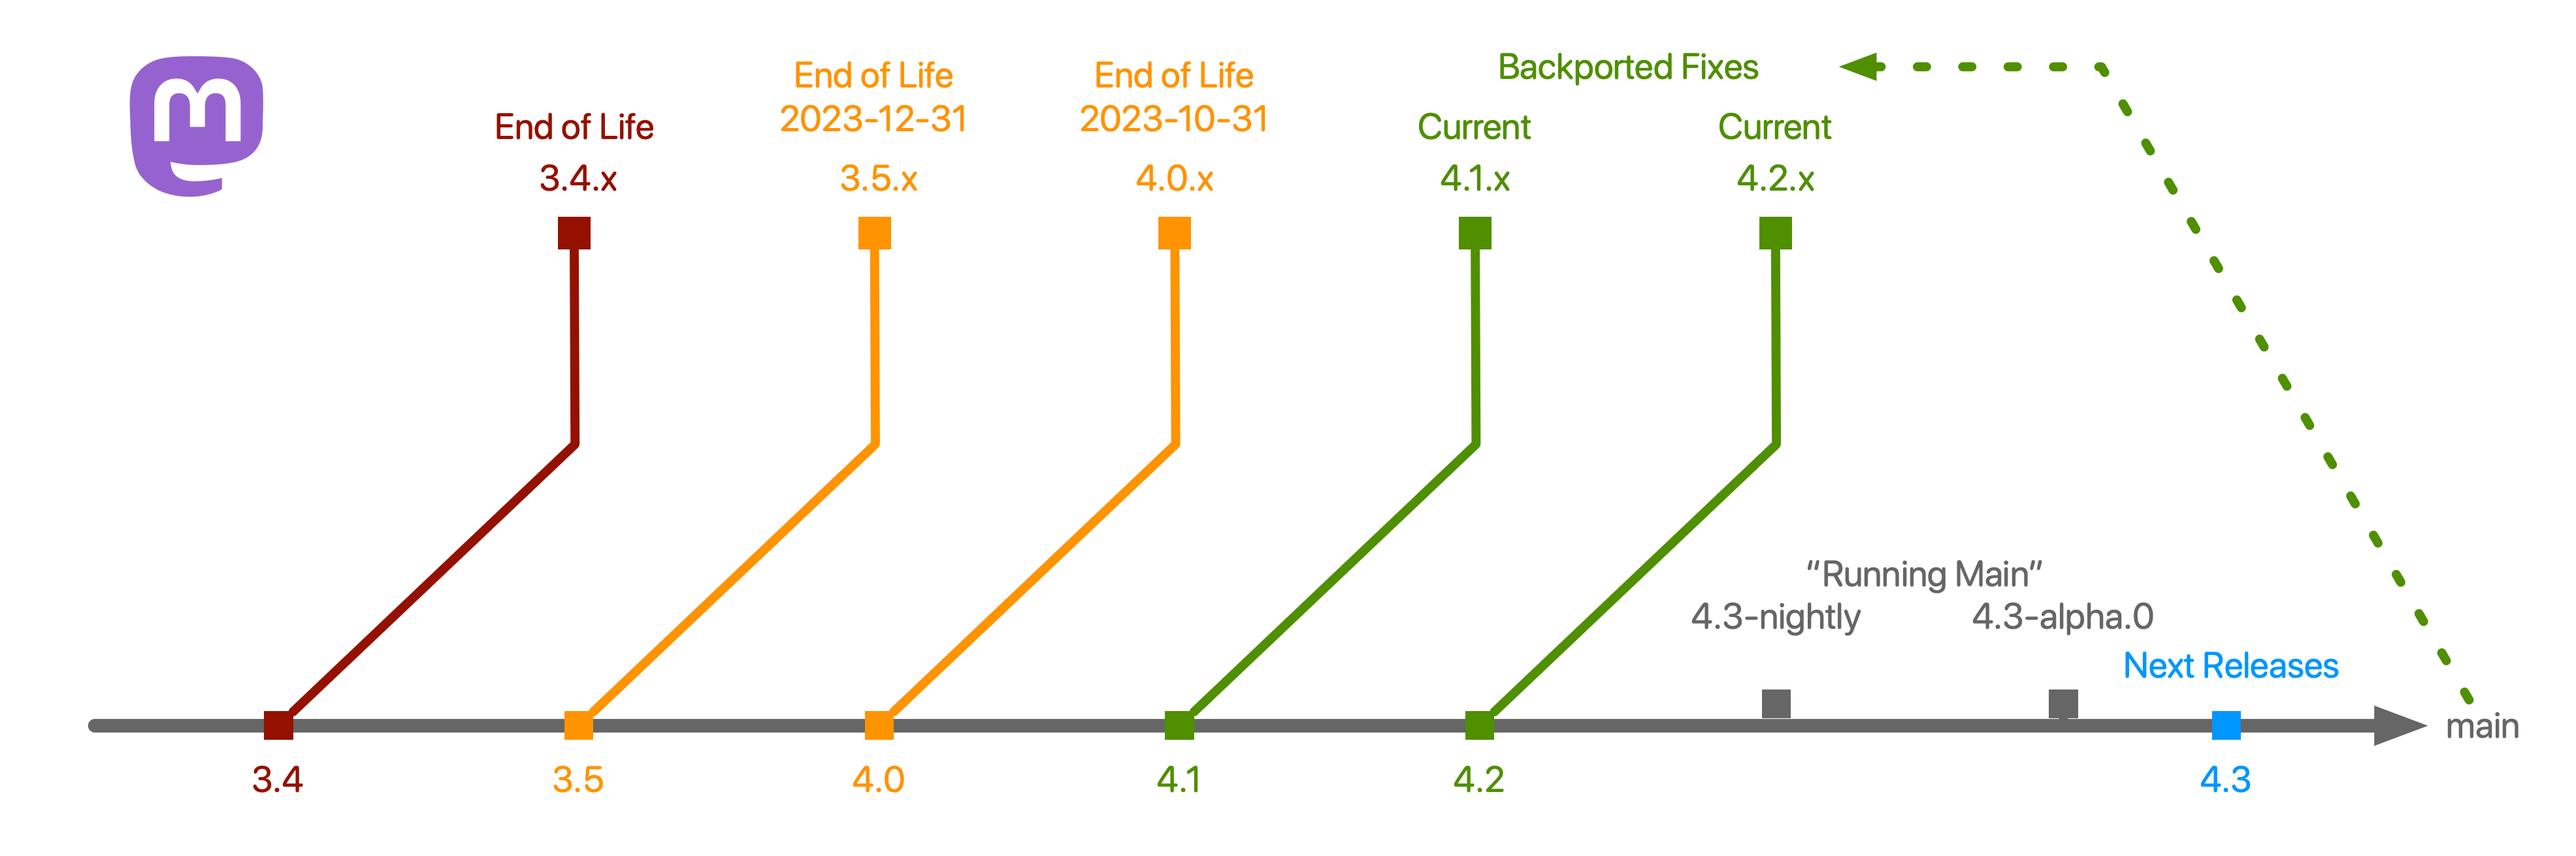
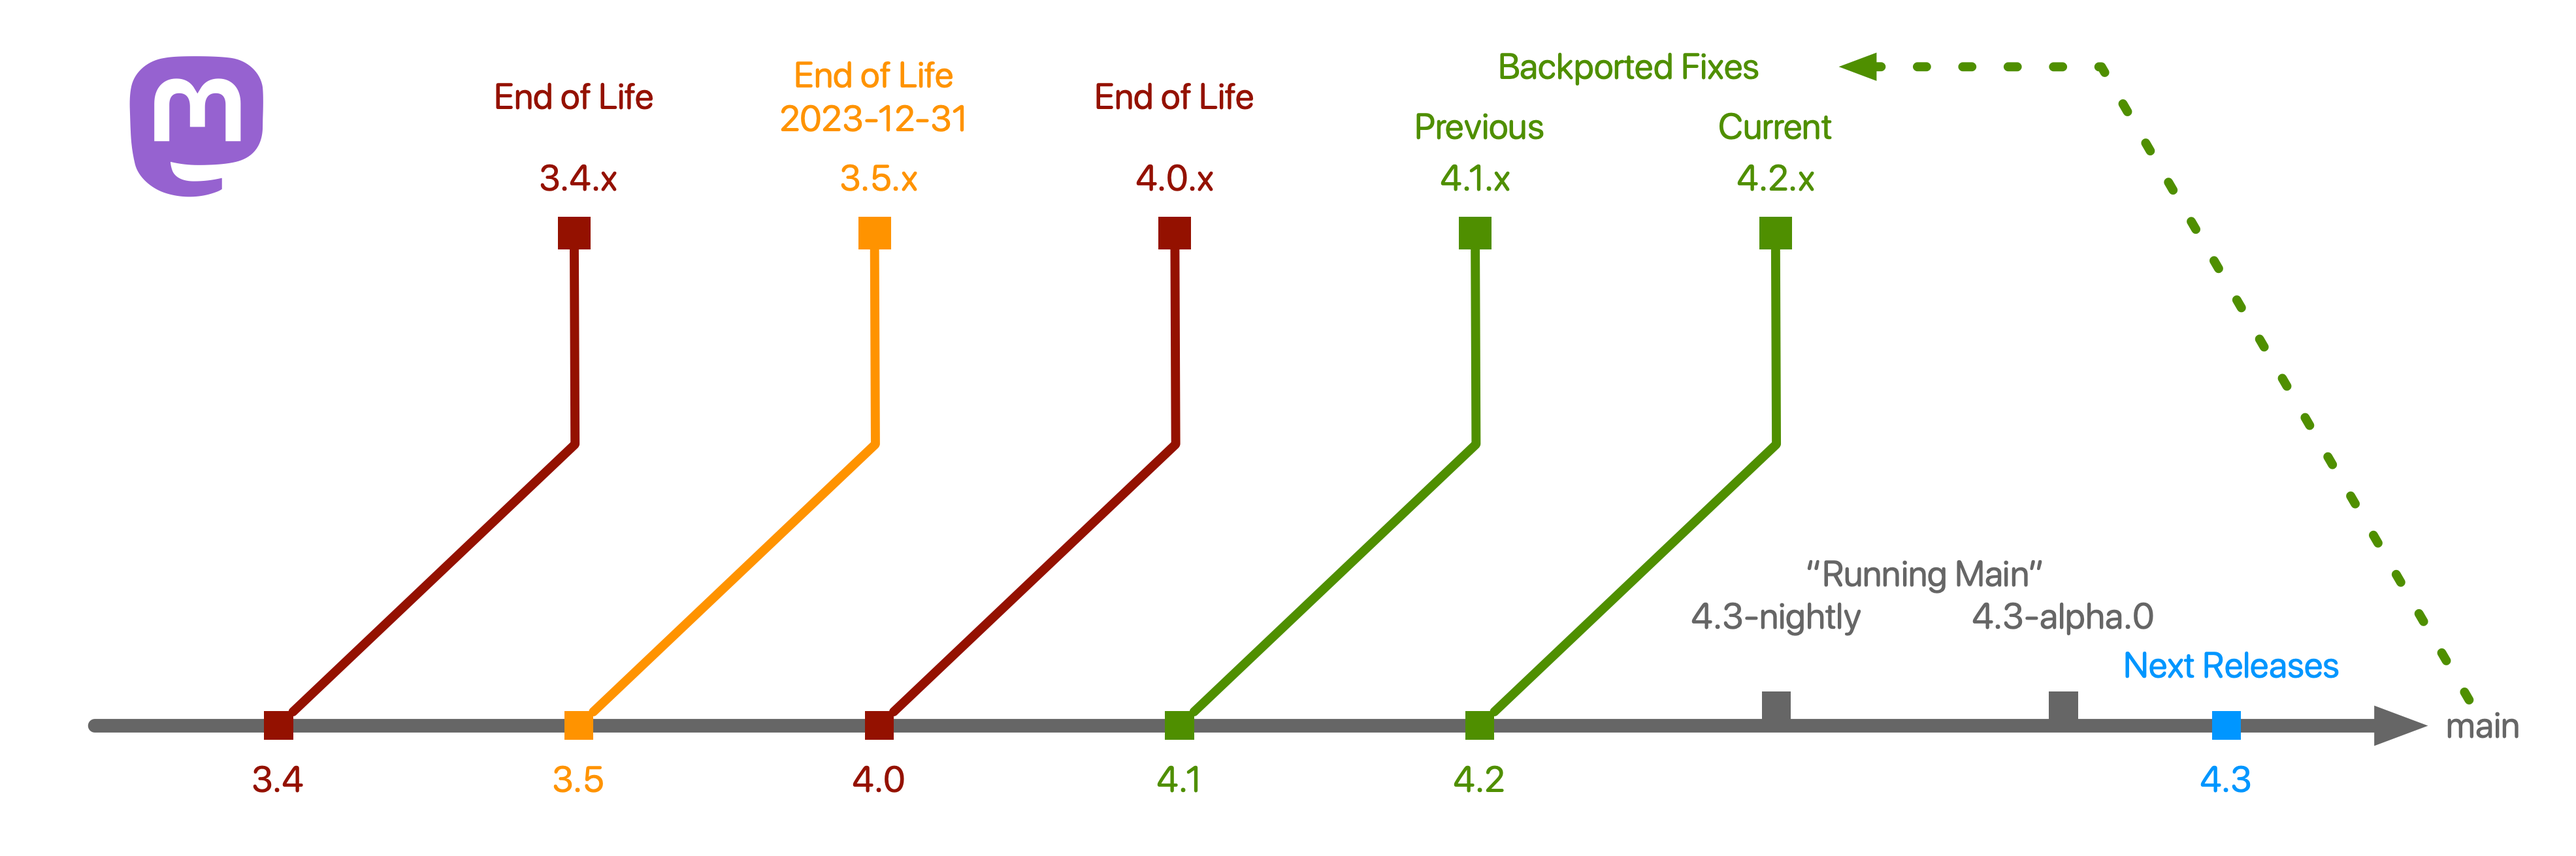
4.0 EOL, Nginx (#4)

diff --git a/docus/content/0.index.md b/docus/content/0.index.md
@@ -9,45 +9,45 @@ This document is a community maintained, best effort, matrix of recent major/min
 You should always read the release notes for your version of Mastodon, and any product dependencies, before upgrading.
 ::
 
-|                    |             **v4.3-dev**             |             **v4.2.1**               |              **v4.1.10**             |              **v4.0.12**             |              **v3.5.15**             |              **v3.4.10**             |
-|--------------------|:------------------------------------:|:------------------------------------:|:------------------------------------:|:------------------------------------:|:------------------------------------:|:------------------------------------:|
-| **Ruby**           |                                      |                                      |                                      |                                      |                                      |                                      |
-| 3.2.x              |  :icon{name="twemoji:green-circle"}  |  :icon{name="twemoji:green-circle"}  |   :icon{name="twemoji:red-circle"}   |  :icon{name="twemoji:white-circle"}  |  :icon{name="twemoji:white-circle"}  |  :icon{name="twemoji:white-circle"}  |
-| 3.1.x              |  :icon{name="twemoji:green-circle"}  |  :icon{name="twemoji:green-circle"}  |   :icon{name="twemoji:red-circle"}   |   :icon{name="twemoji:red-circle"}   |   :icon{name="twemoji:red-circle"}   |  :icon{name="twemoji:white-circle"}  |
-| 3.0.x              |  :icon{name="twemoji:green-circle"}  |  :icon{name="twemoji:green-circle"}  |  :icon{name="twemoji:green-circle"}  |  :icon{name="twemoji:green-circle"}  |  :icon{name="twemoji:green-circle"}  |  :icon{name="twemoji:green-circle"}  |
-| 2.7.x              |   :icon{name="twemoji:red-circle"}   |   :icon{name="twemoji:red-circle"}   |  :icon{name="twemoji:green-circle"}  |  :icon{name="twemoji:green-circle"}  |  :icon{name="twemoji:green-circle"}  |  :icon{name="twemoji:green-circle"}  |
-| 2.6.x              |   :icon{name="twemoji:red-circle"}   |   :icon{name="twemoji:red-circle"}   |   :icon{name="twemoji:red-circle"}   |   :icon{name="twemoji:red-circle"}   | :icon{name="twemoji:yellow-circle"}  |  :icon{name="twemoji:green-circle"}  |
-| **Node.js**        |                                      |                                      |                                      |                                      |                                      |                                      |
-| 20.x               |  :icon{name="twemoji:green-circle"}  |  :icon{name="twemoji:green-circle"}  |  :icon{name="twemoji:white-circle"}  |  :icon{name="twemoji:white-circle"}  |  :icon{name="twemoji:white-circle"}  |  :icon{name="twemoji:white-circle"}  |
-| 18.x               |  :icon{name="twemoji:green-circle"}  |  :icon{name="twemoji:green-circle"}  |   :icon{name="twemoji:red-circle"}   |   :icon{name="twemoji:red-circle"}   |  :icon{name="twemoji:white-circle"}  |  :icon{name="twemoji:white-circle"}  |
-| 16.x               |   :icon{name="twemoji:red-circle"}   | :icon{name="twemoji:yellow-circle"}  |  :icon{name="twemoji:green-circle"}  |  :icon{name="twemoji:green-circle"}  |  :icon{name="twemoji:green-circle"}  |  :icon{name="twemoji:green-circle"}  |
-| 14.x               |   :icon{name="twemoji:red-circle"}   |   :icon{name="twemoji:red-circle"}   |  :icon{name="twemoji:green-circle"}  |  :icon{name="twemoji:green-circle"}  |  :icon{name="twemoji:green-circle"}  |  :icon{name="twemoji:green-circle"}  |
-| 12.22              |   :icon{name="twemoji:red-circle"}   |   :icon{name="twemoji:red-circle"}   |   :icon{name="twemoji:red-circle"}   |   :icon{name="twemoji:red-circle"}   |  :icon{name="twemoji:green-circle"}  |  :icon{name="twemoji:green-circle"}  |
-| **Postgres**       |                                      |                                      |                                      |                                      |                                      |                                      |
-| 16.x               |  :icon{name="twemoji:green-circle"}  |  :icon{name="twemoji:white-circle"}  |  :icon{name="twemoji:white-circle"}  |  :icon{name="twemoji:white-circle"}  |  :icon{name="twemoji:white-circle"}  |  :icon{name="twemoji:white-circle"}  |
-| 15.x               |  :icon{name="twemoji:green-circle"}  |  :icon{name="twemoji:green-circle"}  |  :icon{name="twemoji:green-circle"}  |  :icon{name="twemoji:green-circle"}  |  :icon{name="twemoji:white-circle"}  |  :icon{name="twemoji:white-circle"}  |
-| 14.x               |  :icon{name="twemoji:green-circle"}  |  :icon{name="twemoji:green-circle"}  |  :icon{name="twemoji:green-circle"}  |  :icon{name="twemoji:green-circle"}  |  :icon{name="twemoji:green-circle"}  |  :icon{name="twemoji:white-circle"}  |
-| 13.x               |  :icon{name="twemoji:green-circle"}  |  :icon{name="twemoji:green-circle"}  |  :icon{name="twemoji:green-circle"}  |  :icon{name="twemoji:green-circle"}  |  :icon{name="twemoji:green-circle"}  |  :icon{name="twemoji:green-circle"}  |
-| 12.x               |  :icon{name="twemoji:green-circle"}  |  :icon{name="twemoji:green-circle"}  |  :icon{name="twemoji:green-circle"}  |  :icon{name="twemoji:green-circle"}  |  :icon{name="twemoji:green-circle"}  |  :icon{name="twemoji:green-circle"}  |
-| 11.x               |   :icon{name="twemoji:red-circle"}   | :icon{name="twemoji:yellow-circle"}  |  :icon{name="twemoji:green-circle"}  |  :icon{name="twemoji:green-circle"}  |  :icon{name="twemoji:green-circle"}  |  :icon{name="twemoji:green-circle"}  |
-| 10.x               |   :icon{name="twemoji:red-circle"}   | :icon{name="twemoji:yellow-circle"}  | :icon{name="twemoji:yellow-circle"}  | :icon{name="twemoji:yellow-circle"}  |  :icon{name="twemoji:green-circle"}  |  :icon{name="twemoji:green-circle"}  |
-| 9.6.x              |   :icon{name="twemoji:red-circle"}   |   :icon{name="twemoji:red-circle"}   |   :icon{name="twemoji:red-circle"}   |   :icon{name="twemoji:red-circle"}   | :icon{name="twemoji:yellow-circle"}  |  :icon{name="twemoji:green-circle"}  |
-| 9.5.x              |   :icon{name="twemoji:red-circle"}   |   :icon{name="twemoji:red-circle"}   |   :icon{name="twemoji:red-circle"}   |   :icon{name="twemoji:red-circle"}   | :icon{name="twemoji:yellow-circle"}  | :icon{name="twemoji:yellow-circle"}  |
-| **Redis**          |                                      |                                      |                                      |                                      |                                      |                                      |
-| 7.x                |  :icon{name="twemoji:green-circle"}  |  :icon{name="twemoji:green-circle"}  |  :icon{name="twemoji:green-circle"}  |  :icon{name="twemoji:green-circle"}  |  :icon{name="twemoji:white-circle"}  |  :icon{name="twemoji:white-circle"}  |
-| 6.x                |  :icon{name="twemoji:green-circle"}  |  :icon{name="twemoji:green-circle"}  |  :icon{name="twemoji:green-circle"}  |  :icon{name="twemoji:green-circle"}  |  :icon{name="twemoji:green-circle"}  |  :icon{name="twemoji:white-circle"}  |
-| 5.x                | :icon{name="twemoji:yellow-circle"}  | :icon{name="twemoji:yellow-circle"}  | :icon{name="twemoji:yellow-circle"}  |  :icon{name="twemoji:green-circle"}  |  :icon{name="twemoji:green-circle"}  |  :icon{name="twemoji:green-circle"}  |
-| 4.x                | :icon{name="twemoji:yellow-circle"}  | :icon{name="twemoji:yellow-circle"}  | :icon{name="twemoji:yellow-circle"}  | :icon{name="twemoji:yellow-circle"}  |  :icon{name="twemoji:green-circle"}  |  :icon{name="twemoji:green-circle"}  |
-| **Elasticsearch**  |                                      |                                      |                                      |                                      |                                      |                                      |
-| 8.x                |  :icon{name="twemoji:green-circle"}  |   :icon{name="twemoji:red-circle"}   |   :icon{name="twemoji:red-circle"}   |   :icon{name="twemoji:red-circle"}   |   :icon{name="twemoji:red-circle"}   |  :icon{name="twemoji:white-circle"}  |
-| 7.x                |  :icon{name="twemoji:green-circle"}  |  :icon{name="twemoji:green-circle"}  |  :icon{name="twemoji:green-circle"}  |  :icon{name="twemoji:green-circle"}  |  :icon{name="twemoji:green-circle"}  |  :icon{name="twemoji:green-circle"}  |
-| 6.x                |   :icon{name="twemoji:red-circle"}   |   :icon{name="twemoji:red-circle"}   |   :icon{name="twemoji:red-circle"}   |   :icon{name="twemoji:red-circle"}   |   :icon{name="twemoji:red-circle"}   |  :icon{name="twemoji:green-circle"}  |
-| **OpenSearch**     |                                      |                                      |                                      |                                      |                                      |                                      |
-| 2.x                |  :icon{name="twemoji:green-circle"}  |  :icon{name="twemoji:green-circle"}  |  :icon{name="twemoji:green-circle"}  |   :icon{name="twemoji:red-circle"}   |  :icon{name="twemoji:white-circle"}  |  :icon{name="twemoji:white-circle"}  |
-| 1.x                |   :icon{name="twemoji:red-circle"}   |   :icon{name="twemoji:red-circle"}   |   :icon{name="twemoji:red-circle"}   |   :icon{name="twemoji:red-circle"}   |   :icon{name="twemoji:red-circle"}   |   :icon{name="twemoji:red-circle"}   |
-| **ImageMagick**    |                                      |                                      |                                      |                                      |                                      |                                      |
-| 7.x                |  :icon{name="twemoji:green-circle"}  |  :icon{name="twemoji:green-circle"}  |  :icon{name="twemoji:green-circle"}  |  :icon{name="twemoji:green-circle"}  |  :icon{name="twemoji:green-circle"}  |  :icon{name="twemoji:green-circle"}  |
-| 6.9.7-7+           |  :icon{name="twemoji:green-circle"}  |  :icon{name="twemoji:green-circle"}  |  :icon{name="twemoji:green-circle"}  |  :icon{name="twemoji:green-circle"}  |  :icon{name="twemoji:green-circle"}  |  :icon{name="twemoji:green-circle"}  |
+|                    |             **v4.3-dev**             |             **v4.2.1**               |              **v4.1.10**             |              **v4.0.12**             |              **v3.5.15**             |
+|--------------------|:------------------------------------:|:------------------------------------:|:------------------------------------:|:------------------------------------:|:------------------------------------:|
+| **Ruby**           |                                      |                                      |                                      |                                      |                                      |
+| 3.2.x              |  :icon{name="twemoji:green-circle"}  |  :icon{name="twemoji:green-circle"}  |   :icon{name="twemoji:red-circle"}   |  :icon{name="twemoji:white-circle"}  |  :icon{name="twemoji:white-circle"}  |
+| 3.1.x              |  :icon{name="twemoji:green-circle"}  |  :icon{name="twemoji:green-circle"}  |   :icon{name="twemoji:red-circle"}   |   :icon{name="twemoji:red-circle"}   |   :icon{name="twemoji:red-circle"}   |
+| 3.0.x              |  :icon{name="twemoji:green-circle"}  |  :icon{name="twemoji:green-circle"}  |  :icon{name="twemoji:green-circle"}  |  :icon{name="twemoji:green-circle"}  |  :icon{name="twemoji:green-circle"}  |
+| 2.7.x              |   :icon{name="twemoji:red-circle"}   |   :icon{name="twemoji:red-circle"}   |  :icon{name="twemoji:green-circle"}  |  :icon{name="twemoji:green-circle"}  |  :icon{name="twemoji:green-circle"}  |
+| 2.6.x              |   :icon{name="twemoji:red-circle"}   |   :icon{name="twemoji:red-circle"}   |   :icon{name="twemoji:red-circle"}   |   :icon{name="twemoji:red-circle"}   | :icon{name="twemoji:yellow-circle"}  |
+| **Node.js**        |                                      |                                      |                                      |                                      |                                      |
+| 20.x               |  :icon{name="twemoji:green-circle"}  |  :icon{name="twemoji:green-circle"}  |  :icon{name="twemoji:white-circle"}  |  :icon{name="twemoji:white-circle"}  |  :icon{name="twemoji:white-circle"}  |
+| 18.x               |  :icon{name="twemoji:green-circle"}  |  :icon{name="twemoji:green-circle"}  |   :icon{name="twemoji:red-circle"}   |   :icon{name="twemoji:red-circle"}   |  :icon{name="twemoji:white-circle"}  |
+| 16.x               |   :icon{name="twemoji:red-circle"}   | :icon{name="twemoji:yellow-circle"}  |  :icon{name="twemoji:green-circle"}  |  :icon{name="twemoji:green-circle"}  |  :icon{name="twemoji:green-circle"}  |
+| 14.x               |   :icon{name="twemoji:red-circle"}   |   :icon{name="twemoji:red-circle"}   |  :icon{name="twemoji:green-circle"}  |  :icon{name="twemoji:green-circle"}  |  :icon{name="twemoji:green-circle"}  |
+| 12.22              |   :icon{name="twemoji:red-circle"}   |   :icon{name="twemoji:red-circle"}   |   :icon{name="twemoji:red-circle"}   |   :icon{name="twemoji:red-circle"}   |  :icon{name="twemoji:green-circle"}  |
+| **Postgres**       |                                      |                                      |                                      |                                      |                                      |
+| 16.x               |  :icon{name="twemoji:green-circle"}  |  :icon{name="twemoji:white-circle"}  |  :icon{name="twemoji:white-circle"}  |  :icon{name="twemoji:white-circle"}  |  :icon{name="twemoji:white-circle"}  |
+| 15.x               |  :icon{name="twemoji:green-circle"}  |  :icon{name="twemoji:green-circle"}  |  :icon{name="twemoji:green-circle"}  |  :icon{name="twemoji:green-circle"}  |  :icon{name="twemoji:white-circle"}  |
+| 14.x               |  :icon{name="twemoji:green-circle"}  |  :icon{name="twemoji:green-circle"}  |  :icon{name="twemoji:green-circle"}  |  :icon{name="twemoji:green-circle"}  |  :icon{name="twemoji:green-circle"}  |
+| 13.x               |  :icon{name="twemoji:green-circle"}  |  :icon{name="twemoji:green-circle"}  |  :icon{name="twemoji:green-circle"}  |  :icon{name="twemoji:green-circle"}  |  :icon{name="twemoji:green-circle"}  |
+| 12.x               |  :icon{name="twemoji:green-circle"}  |  :icon{name="twemoji:green-circle"}  |  :icon{name="twemoji:green-circle"}  |  :icon{name="twemoji:green-circle"}  |  :icon{name="twemoji:green-circle"}  |
+| 11.x               |   :icon{name="twemoji:red-circle"}   | :icon{name="twemoji:yellow-circle"}  |  :icon{name="twemoji:green-circle"}  |  :icon{name="twemoji:green-circle"}  |  :icon{name="twemoji:green-circle"}  |
+| 10.x               |   :icon{name="twemoji:red-circle"}   | :icon{name="twemoji:yellow-circle"}  | :icon{name="twemoji:yellow-circle"}  | :icon{name="twemoji:yellow-circle"}  |  :icon{name="twemoji:green-circle"}  |
+| 9.6.x              |   :icon{name="twemoji:red-circle"}   |   :icon{name="twemoji:red-circle"}   |   :icon{name="twemoji:red-circle"}   |   :icon{name="twemoji:red-circle"}   | :icon{name="twemoji:yellow-circle"}  |
+| 9.5.x              |   :icon{name="twemoji:red-circle"}   |   :icon{name="twemoji:red-circle"}   |   :icon{name="twemoji:red-circle"}   |   :icon{name="twemoji:red-circle"}   | :icon{name="twemoji:yellow-circle"}  |
+| **Redis**          |                                      |                                      |                                      |                                      |                                      |
+| 7.x                |  :icon{name="twemoji:green-circle"}  |  :icon{name="twemoji:green-circle"}  |  :icon{name="twemoji:green-circle"}  |  :icon{name="twemoji:green-circle"}  |  :icon{name="twemoji:white-circle"}  |
+| 6.x                |  :icon{name="twemoji:green-circle"}  |  :icon{name="twemoji:green-circle"}  |  :icon{name="twemoji:green-circle"}  |  :icon{name="twemoji:green-circle"}  |  :icon{name="twemoji:green-circle"}  |
+| 5.x                | :icon{name="twemoji:yellow-circle"}  | :icon{name="twemoji:yellow-circle"}  | :icon{name="twemoji:yellow-circle"}  |  :icon{name="twemoji:green-circle"}  |  :icon{name="twemoji:green-circle"}  |
+| 4.x                | :icon{name="twemoji:yellow-circle"}  | :icon{name="twemoji:yellow-circle"}  | :icon{name="twemoji:yellow-circle"}  | :icon{name="twemoji:yellow-circle"}  |  :icon{name="twemoji:green-circle"}  |
+| **Elasticsearch**  |                                      |                                      |                                      |                                      |                                      |
+| 8.x                |  :icon{name="twemoji:green-circle"}  |   :icon{name="twemoji:red-circle"}   |   :icon{name="twemoji:red-circle"}   |   :icon{name="twemoji:red-circle"}   |   :icon{name="twemoji:red-circle"}   |
+| 7.x                |  :icon{name="twemoji:green-circle"}  |  :icon{name="twemoji:green-circle"}  |  :icon{name="twemoji:green-circle"}  |  :icon{name="twemoji:green-circle"}  |  :icon{name="twemoji:green-circle"}  |
+| 6.x                |   :icon{name="twemoji:red-circle"}   |   :icon{name="twemoji:red-circle"}   |   :icon{name="twemoji:red-circle"}   |   :icon{name="twemoji:red-circle"}   |   :icon{name="twemoji:red-circle"}   |
+| **OpenSearch**     |                                      |                                      |                                      |                                      |                                      |
+| 2.x                |  :icon{name="twemoji:green-circle"}  |  :icon{name="twemoji:green-circle"}  |  :icon{name="twemoji:green-circle"}  |   :icon{name="twemoji:red-circle"}   |  :icon{name="twemoji:white-circle"}  |
+| 1.x                |   :icon{name="twemoji:red-circle"}   |   :icon{name="twemoji:red-circle"}   |   :icon{name="twemoji:red-circle"}   |   :icon{name="twemoji:red-circle"}   |   :icon{name="twemoji:red-circle"}   |
+| **ImageMagick**    |                                      |                                      |                                      |                                      |                                      |
+| 7.x                |  :icon{name="twemoji:green-circle"}  |  :icon{name="twemoji:green-circle"}  |  :icon{name="twemoji:green-circle"}  |  :icon{name="twemoji:green-circle"}  |  :icon{name="twemoji:green-circle"}  |
+| 6.9.7-7+           |  :icon{name="twemoji:green-circle"}  |  :icon{name="twemoji:green-circle"}  |  :icon{name="twemoji:green-circle"}  |  :icon{name="twemoji:green-circle"}  |  :icon{name="twemoji:green-circle"}  |
 
 ::alert{type="warning"}
 Dependencies listed for dev, beta and rc tagged versions are based on tracking the development process in GitHub and the project Discord, and are subject to change at any time.
@@ -71,9 +71,11 @@ Dependencies listed for dev, beta and rc tagged versions are based on tracking t
 | 4.3.x         | Not Yet Released | :icon{name="twemoji:white-circle"}  |
 | 4.2.x         | To Be Determined | :icon{name="twemoji:green-circle"}  |
 | 4.1.x         | To Be Determined | :icon{name="twemoji:green-circle"}  |
-| 4.0.x         | After 2023-10-31 | :icon{name="twemoji:yellow-circle"} |
+| 4.0.x         | End of Life Now  | :icon{name="twemoji:red-circle"}    |
 | 3.5.x         | After 2023-12-31 | :icon{name="twemoji:yellow-circle"} |
 | 3.4.x & prior | End of Life Now  | :icon{name="twemoji:red-circle"}    |
+
+Reference: [Mastodon Security Policy](https://github.com/mastodon/mastodon/security)
 
 ## Additional Resources
 
@@ -120,6 +122,19 @@ For the purposes of this document, when applied to dependencies the term "End of
 - [Redis](https://redis.io/docs/about/releases/)
 - [Elasticsearch](https://www.elastic.co/support/eol)
 - [OpenSearch](https://opensearch.org/releases.html#maintenance-policy)
+
+### Nginx or Other Ingress
+
+Mastodon requires an load balancer or reverse proxy to properly terminate TLS/SSL connections between users and ingress traffic to the system.
+Nginx is commonly used for this purpose, and [an example configuration](https://github.com/mastodon/mastodon/blob/main/dist/nginx.conf) is provided in the Mastodon respository.
+
+Other types of software can be used in place of Nginx, such as Caddy for example.
+There is no Mastodon specific requirement that Nginx be used.
+
+Reguardless of the ingress software that is used, you should keep it up to date to prevent expliotation of known CVEs.
+
+- [Nginx](https://docs.nginx.com/nginx/admin-guide/installing-nginx/installing-nginx-open-source/#prebuilt)
+- [Caddy](https://caddyserver.com/docs/install)
 
 ::alert{type="warning"}
 This document accepts updates or corrections via [GitHub](https://github.com/vmstan/mastoreqs). For questions or comments please reach out to [@vmstan@vmst.io](https://vmst.io/@vmstan).
